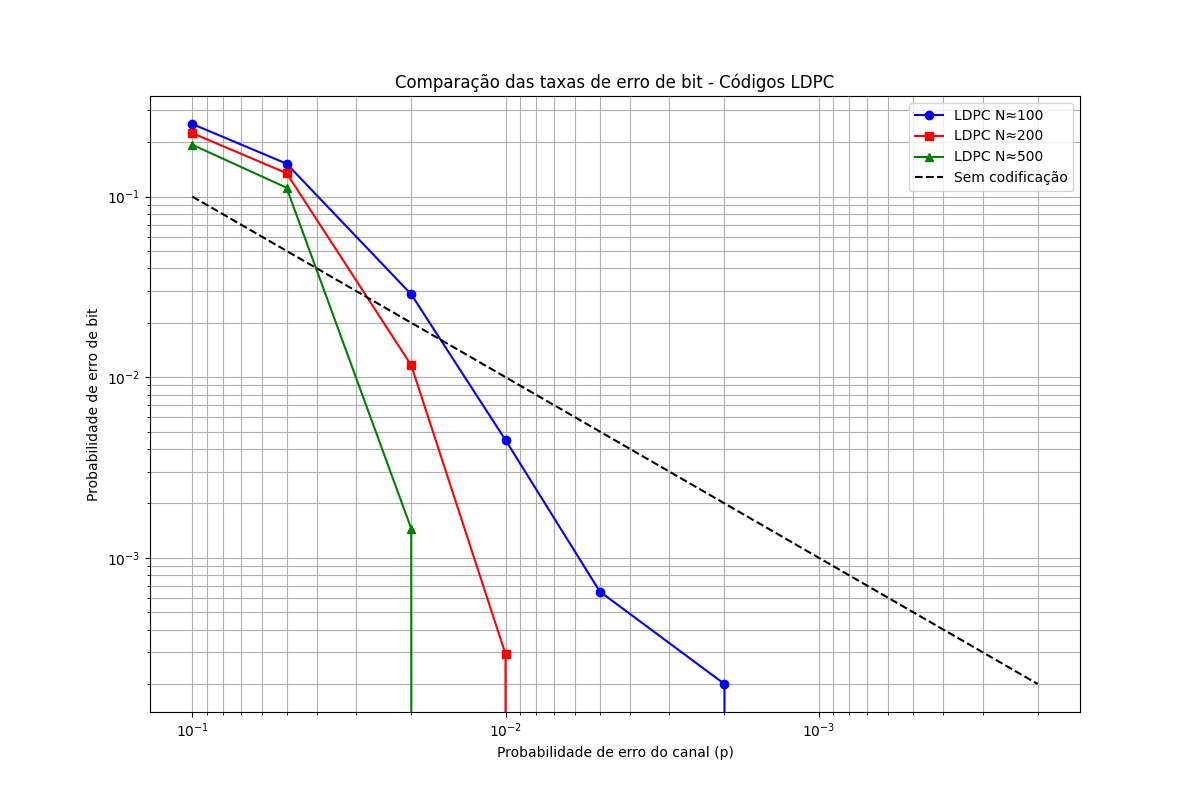
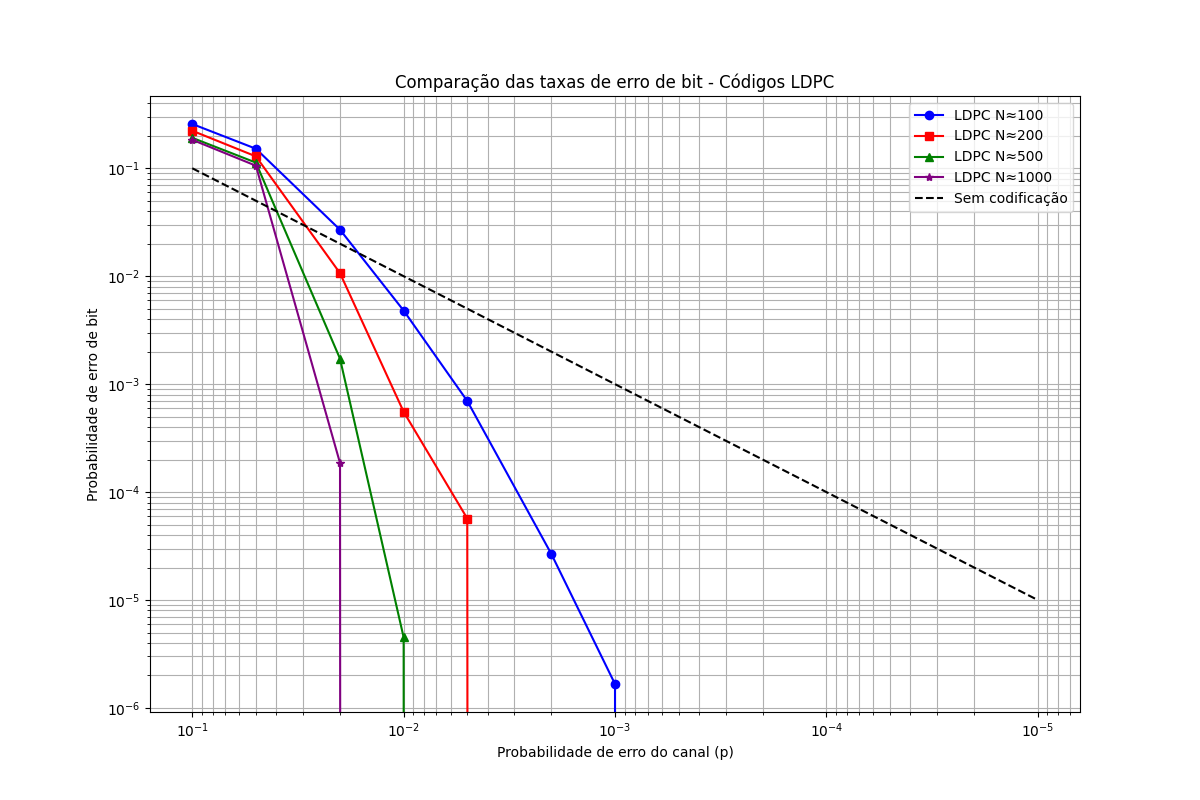
Adicionei N=1000, e uma forma de ter mais nuance gráfica

diff --git a/main.py b/main.py
@@ -95,11 +95,19 @@ def obter_matriz_G(H: np.ndarray) -> np.ndarray:
         raise ValueError("Matriz H_2 não é inversível")
 
 
-def simular_transmissao_ldpc(H, G, erro_canal, num_palavras):
+def simular_transmissao_ldpc(H, G, erro_canal, num_palavras_base, num_palavras_baixo_erro, limite_erro):
     """
     Simula transmissão usando código LDPC.
+    
+    Args:
+        H: Matriz de verificação de paridade
+        G: Matriz geradora
+        erro_canal: Lista de probabilidades de erro do canal
+        num_palavras_base: Número de palavras para probabilidades de erro >= limite_erro
+        num_palavras_baixo_erro: Número de palavras para probabilidades de erro < limite_erro
+        limite_erro: Limite de probabilidade de erro para usar num_palavras_baixo_erro
     """
-    print(f"Iniciando simulação LDPC com {num_palavras} palavras por probabilidade...")
+    print(f"Iniciando simulação LDPC com {num_palavras_base} palavras para p >= {limite_erro} e {num_palavras_baixo_erro} palavras para p < {limite_erro}...")
     
     k = G.shape[0]  # dimensão da palavra de informação
     N = H.shape[1]  # comprimento da palavra código
@@ -111,7 +119,8 @@ def simular_transmissao_ldpc(H, G, erro_canal, num_palavras):
     
     resultados = []
     for p in erro_canal:
-        print(f"\nSimulando transmissão LDPC com p = {p}")
+        num_palavras = num_palavras_baixo_erro if p < limite_erro else num_palavras_base
+        print(f"\nSimulando transmissão LDPC com p = {p} usando {num_palavras} palavras")
         bits_errados = 0
         total_erros_inseridos = 0
         
@@ -149,7 +158,7 @@ def simular_transmissao_ldpc(H, G, erro_canal, num_palavras):
     return resultados
 
 
-def plotar_comparacao_ldpc(resultados_100, resultados_200, resultados_500, sem_codigo):
+def plotar_comparacao_ldpc(resultados_100, resultados_200, resultados_500, resultados_1000, sem_codigo):
     """
     Plota os resultados da simulação LDPC.
     """
@@ -160,12 +169,14 @@ def plotar_comparacao_ldpc(resultados_100, resultados_200, resultados_500, sem_c
     p_100, prob_100 = zip(*resultados_100)
     p_200, prob_200 = zip(*resultados_200)
     p_500, prob_500 = zip(*resultados_500)
+    p_1000, prob_1000 = zip(*resultados_1000)
     p_sem, prob_sem = zip(*sem_codigo)
     
     # Plota os gráficos
     plt.loglog(p_100, prob_100, 'o-', label='LDPC N≈100', color='blue')
     plt.loglog(p_200, prob_200, 's-', label='LDPC N≈200', color='red')
     plt.loglog(p_500, prob_500, '^-', label='LDPC N≈500', color='green')
+    plt.loglog(p_1000, prob_1000, '*-', label='LDPC N≈1000', color='purple')
     plt.loglog(p_sem, prob_sem, '--', label='Sem codificação', color='black')
     
     plt.gca().invert_xaxis()
@@ -196,15 +207,18 @@ def main():
     print(f"Parâmetros: dv={dv}, dc={dc}, taxa = {1-dv/dc:.4f}")
     
     # Valores de N
-    N_valores = [100, 200, 500]
+    N_valores = [100, 200, 500, 1000]
     
     # Probabilidades de erro do canal
-    erro_canal = [0.1, 0.05, 0.02, 0.01, 0.005, 0.002, 0.001, 0.0005, 0.0002]
+    erro_canal = [0.1, 0.05, 0.02, 0.01, 0.005, 0.002, 0.001, 0.0005, 0.0002, 0.0001, 0.00005, 0.00002, 0.00001]
     print(f"Probabilidades de erro: {erro_canal}")
     
     # Número de palavras para simulação
-    num_palavras = 1000
-    print(f"Número de palavras por probabilidade: {num_palavras}")
+    num_palavras_base = 1000  # para p >= limite_erro
+    num_palavras_baixo_erro = 10000  # para p < limite_erro
+    limite_erro = 0.04  # limite para usar mais palavras
+    print(f"Número de palavras para p >= {limite_erro}: {num_palavras_base}")
+    print(f"Número de palavras para p < {limite_erro}: {num_palavras_baixo_erro}")
     
     resultados_todos = []
     
@@ -225,7 +239,7 @@ def main():
         G = obter_matriz_G(H)
         
         # Simula transmissão
-        resultados = simular_transmissao_ldpc(H, G, erro_canal, num_palavras)
+        resultados = simular_transmissao_ldpc(H, G, erro_canal, num_palavras_base, num_palavras_baixo_erro, limite_erro)
         resultados_todos.append(resultados)
     
     # Simula caso sem código
@@ -237,6 +251,7 @@ def main():
         resultados_todos[0],  # N≈100
         resultados_todos[1],  # N≈200
         resultados_todos[2],  # N≈500
+        resultados_todos[3],  # N≈1000
         resultados_sem_codigo
     )
     
